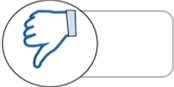
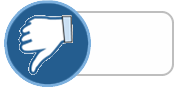
Made like/dislike buttons match the style of the rest of the site.  They hilight on hover.
Added rankings to search pages but I can't see if they actually work until paul pulls it to his site.

diff --git a/js/script.js b/js/script.js
@@ -282,15 +282,16 @@ function searchFor(searchTerm){
 		 var response = JSON.parse(JSONresponse);
 		 console.log(responseText);
 		 if(response.items != null){
-			var html = "data:text/html;charset=utf-8,"+ encodeURI("<head><base href='http://students.cs.byu.edu/~RPFrame/thundercatz/Stats-Project/' target='_top' /><link rel='stylesheet' type='text/css' href='css/gibbsStyle.css'></head>");/*document.getElementByTag("body").innerHTML = "";*/
+			var html = "data:text/html;charset=utf-8,"+ encodeURI("<head><base href='http://students.cs.byu.edu/~RPFrame/thundercatz/Stats-Project/' target='_top' /><link rel='stylesheet' type='text/css' href='css/gibbsStyle.css'></head><table>");/*document.getElementByTag("body").innerHTML = "";*/
 			for (var i = 0; i < response.items.length; i++) {
 				var item = response.items[i];
 				console.log(responseText);
 				var temphtml = "";
-				temphtml = "<br>" +'<li class="b_algo"><h2><a target="_top" '+'href="search.html?a='+encodeURIComponent(item.link)+'">'+ item.htmlTitle + "</a></h2>" 
-																	+"<cite>" + item.htmlFormattedUrl + "</cite><br>"
-																	+ item.htmlSnippet + "<br>";
-				html += encodeURI(temphtml);
+				temphtml = "<tr><td>" +'<li class="b_algo"><h2><a target="_top" '+'href="search.html?a='+encodeURIComponent(item.link)+'">'+ item.htmlTitle + "</a></h2>" 
+				+"<cite>" + item.htmlFormattedUrl + "</cite><br>"
+				+ item.htmlSnippet
+				+ "</td><td width=\"110\"><img src=\"img/rat3.png\" style=\"width:75px;height:25px\"></td></tr>";
+				html += encodeURI(temphtml) + "</table>";
 				}
 			document.getElementById("main_frame").src = html;
 		 }else{
@@ -371,5 +372,21 @@ function wysiwyg(url){
 		niceditInstance.setPanel('content');
 		niceditInstance.addInstance('content');
 	}
+}
+
+function likehover(ele){
+	ele.src="img/thumbsupHover.png";
+}
+
+function likeoff(ele){
+	ele.src="img/thumbsup.png";
+}
+
+function dislikehover(ele){
+	ele.src="img/thumbsdownHover.png";
+}
+
+function dislikeoff(ele){
+	ele.src="img/thumbsdown.png";
 }
 

diff --git a/css/style.css b/css/style.css
@@ -40,9 +40,10 @@ body{
     font-size: 15px;
     text-decoration: none;
     cursor: pointer;
-    border-width:1px;
-	border-color:rgb(124,175,222);
-	border-style:solid;
+    border-width: 2px;
+	border-radius: 4px;
+	border-color: rgb(124,175,222);
+	border-style: solid;
 	white-space: normal;
 }
 
@@ -67,9 +68,11 @@ body{
 #likeContainer{
 	width:70px;
 	height:50px;
+	top: 13px;
 	float:right;
 	visibility:hidden;
-	margin: 16px 18px 0px 10px;
+	margin: 10px 18px 0px 10px;
+	cursor: pointer;
 }
 
 #dislikeContainer {
@@ -77,19 +80,24 @@ body{
 	height:50px;
 	float:right;
 	visibility:hidden;
-	margin: 16px 100px 0px 15px;
+	margin: 10px 100px 0px 15px;
+	cursor: pointer;
 }
 
 #likeDisplay {
 	position: relative;
 	right: 32px;
 	z-index: 901;
+	font-size: 150%;
+	font-family: accentFont;
 }
 
 #dislikeDisplay {
 	position: relative;
 	right:32px;
 	z-index:901;
+	font-size: 150%;
+	font-family: accentFont;
 }
 
 #backButton{

diff --git a/main.html b/main.html
@@ -13,13 +13,13 @@
 	<input type=submit id="backButton" class="button" value="Back" onclick="backButton();"/>
 	<div id="dislikeContainer"/>
 		<table><tr>
-		<td><img src="img/thumbsdown.png" height="44" width="87" onclick="dislikeUp();"></td>
+		<td><img src="img/thumbsdown.png" height="50" onclick="dislikeUp();" onmouseover="dislikehover(this);" onmouseout="dislikeoff(this);"></td>
 		<td><div id="dislikeDisplay" style="font-weight:bold !important;">6</div></td></tr>
 		</table>
 	</div>
 	<div id="likeContainer"/>
 		<table><tr>
-		<td><img src="img/thumbsup.png" height="44" width="87" onclick="likeUp();"></td>
+		<td><img src="img/thumbsup.png" height="50" onclick="likeUp();" onmouseover="likehover(this);" onmouseout="likeoff(this);"></td>
 		<td><div id="likeDisplay" style="font-weight:bold !important;">6</div></td></tr>
 		</table>
 	</div>
